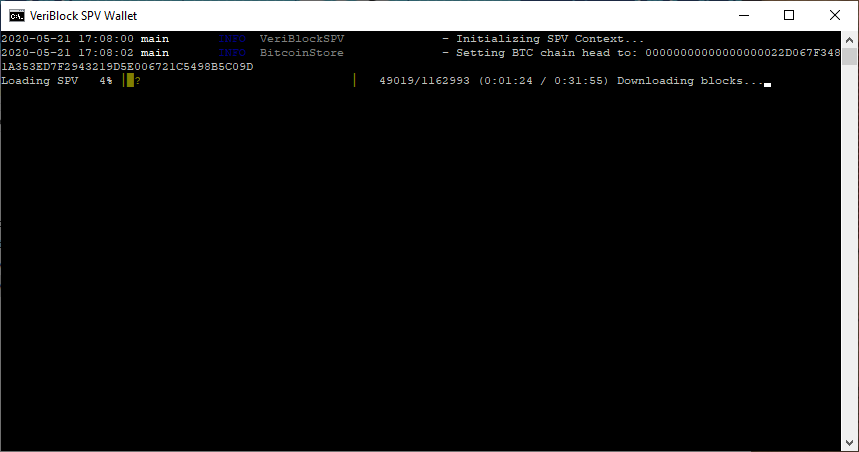
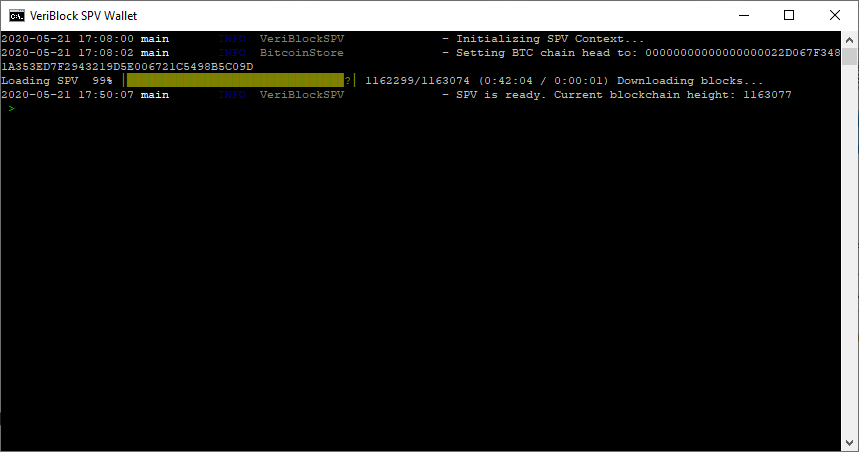
fixes

diff --git a/nodecore-spv/nodecore-spv-standalone/src/main/kotlin/org/veriblock/spv/standalone/VeriBlockSPV.kt b/nodecore-spv/nodecore-spv-standalone/src/main/kotlin/org/veriblock/spv/standalone/VeriBlockSPV.kt
@@ -75,10 +75,8 @@ private fun run(): Int {
                 sleep(1000L)
                 status = spvContext.peerTable.getDownloadStatus()
             }
-            // DownloadStatus is READY when the difference between the currentHeight and bestHeight is smaller than 50
-            if (status.downloadStatus == DownloadStatus.READY) {
-                progressBar.stepTo(status.bestHeight.toLong())
-            }
+            progressBar.maxHint(status.bestHeight.toLong())
+            progressBar.stepTo(status.bestHeight.toLong())
         }
         logger.info { "SPV is ready. Current blockchain height: ${spvContext.peerTable.getDownloadStatus().currentHeight}" }
         shell.run()
